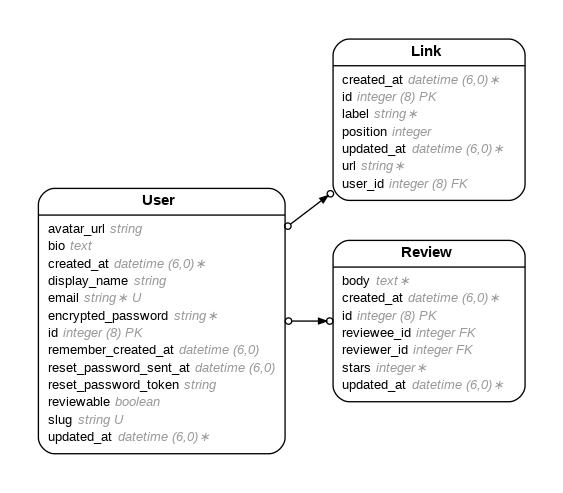
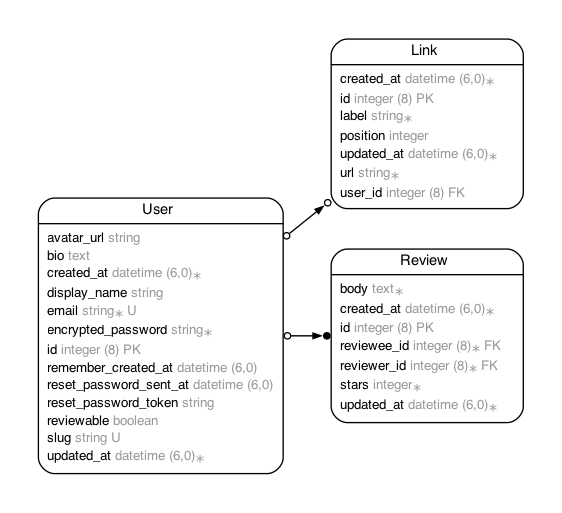
Harden reviews FK constraints and indexes

Changed region(s): [[0.0605, 0.3651, 0.9377, 0.9432], [0.5445, 0.0609, 0.9377, 0.426]]

diff --git a/db/migrate/20260513011536_upgrade_review_foreign_keys.rb b/db/migrate/20260513011536_upgrade_review_foreign_keys.rb
@@ -1,0 +1,26 @@
+class UpgradeReviewForeignKeys < ActiveRecord::Migration[8.0]
+  def change
+    # 1. Wipe any existing reviews — we're about to change their structure.
+    #    Only safe in dev. In production you'd preserve the data first.
+    Review.delete_all
+
+    # 2. Drop the old plain-integer columns.
+    remove_column :reviews, :reviewer_id, :integer
+    remove_column :reviews, :reviewee_id, :integer
+
+    # 3. Re-add them as proper references with foreign key constraints + indexes.
+    add_reference :reviews, :reviewer,
+                  null: false,
+                  foreign_key: { to_table: :users },
+                  index: true
+
+    add_reference :reviews, :reviewee,
+                  null: false,
+                  foreign_key: { to_table: :users },
+                  index: true
+
+    # 4. Enforce "one review per reviewer per reviewee" at the database level,
+    #    backing up the validation that already exists in the model.
+    add_index :reviews, [:reviewer_id, :reviewee_id], unique: true
+  end
+end

diff --git a/db/schema.rb b/db/schema.rb
@@ -10,7 +10,7 @@
 #
 # It's strongly recommended that you check this file into your version control system.
 
-ActiveRecord::Schema[8.0].define(version: 2026_02_28_125224) do
+ActiveRecord::Schema[8.0].define(version: 2026_05_13_011536) do
   # These are extensions that must be enabled in order to support this database
   enable_extension "pg_catalog.plpgsql"
 
@@ -25,12 +25,15 @@ ActiveRecord::Schema[8.0].define(version: 2026_02_28_125224) do
   end
 
   create_table "reviews", force: :cascade do |t|
-    t.integer "reviewer_id"
-    t.integer "reviewee_id"
     t.text "body"
     t.integer "stars"
     t.datetime "created_at", null: false
     t.datetime "updated_at", null: false
+    t.bigint "reviewer_id", null: false
+    t.bigint "reviewee_id", null: false
+    t.index ["reviewee_id"], name: "index_reviews_on_reviewee_id"
+    t.index ["reviewer_id", "reviewee_id"], name: "index_reviews_on_reviewer_id_and_reviewee_id", unique: true
+    t.index ["reviewer_id"], name: "index_reviews_on_reviewer_id"
   end
 
   create_table "solid_cable_messages", force: :cascade do |t|
@@ -193,6 +196,8 @@ ActiveRecord::Schema[8.0].define(version: 2026_02_28_125224) do
   end
 
   add_foreign_key "links", "users"
+  add_foreign_key "reviews", "users", column: "reviewee_id"
+  add_foreign_key "reviews", "users", column: "reviewer_id"
   add_foreign_key "solid_queue_blocked_executions", "solid_queue_jobs", column: "job_id", on_delete: :cascade
   add_foreign_key "solid_queue_claimed_executions", "solid_queue_jobs", column: "job_id", on_delete: :cascade
   add_foreign_key "solid_queue_failed_executions", "solid_queue_jobs", column: "job_id", on_delete: :cascade